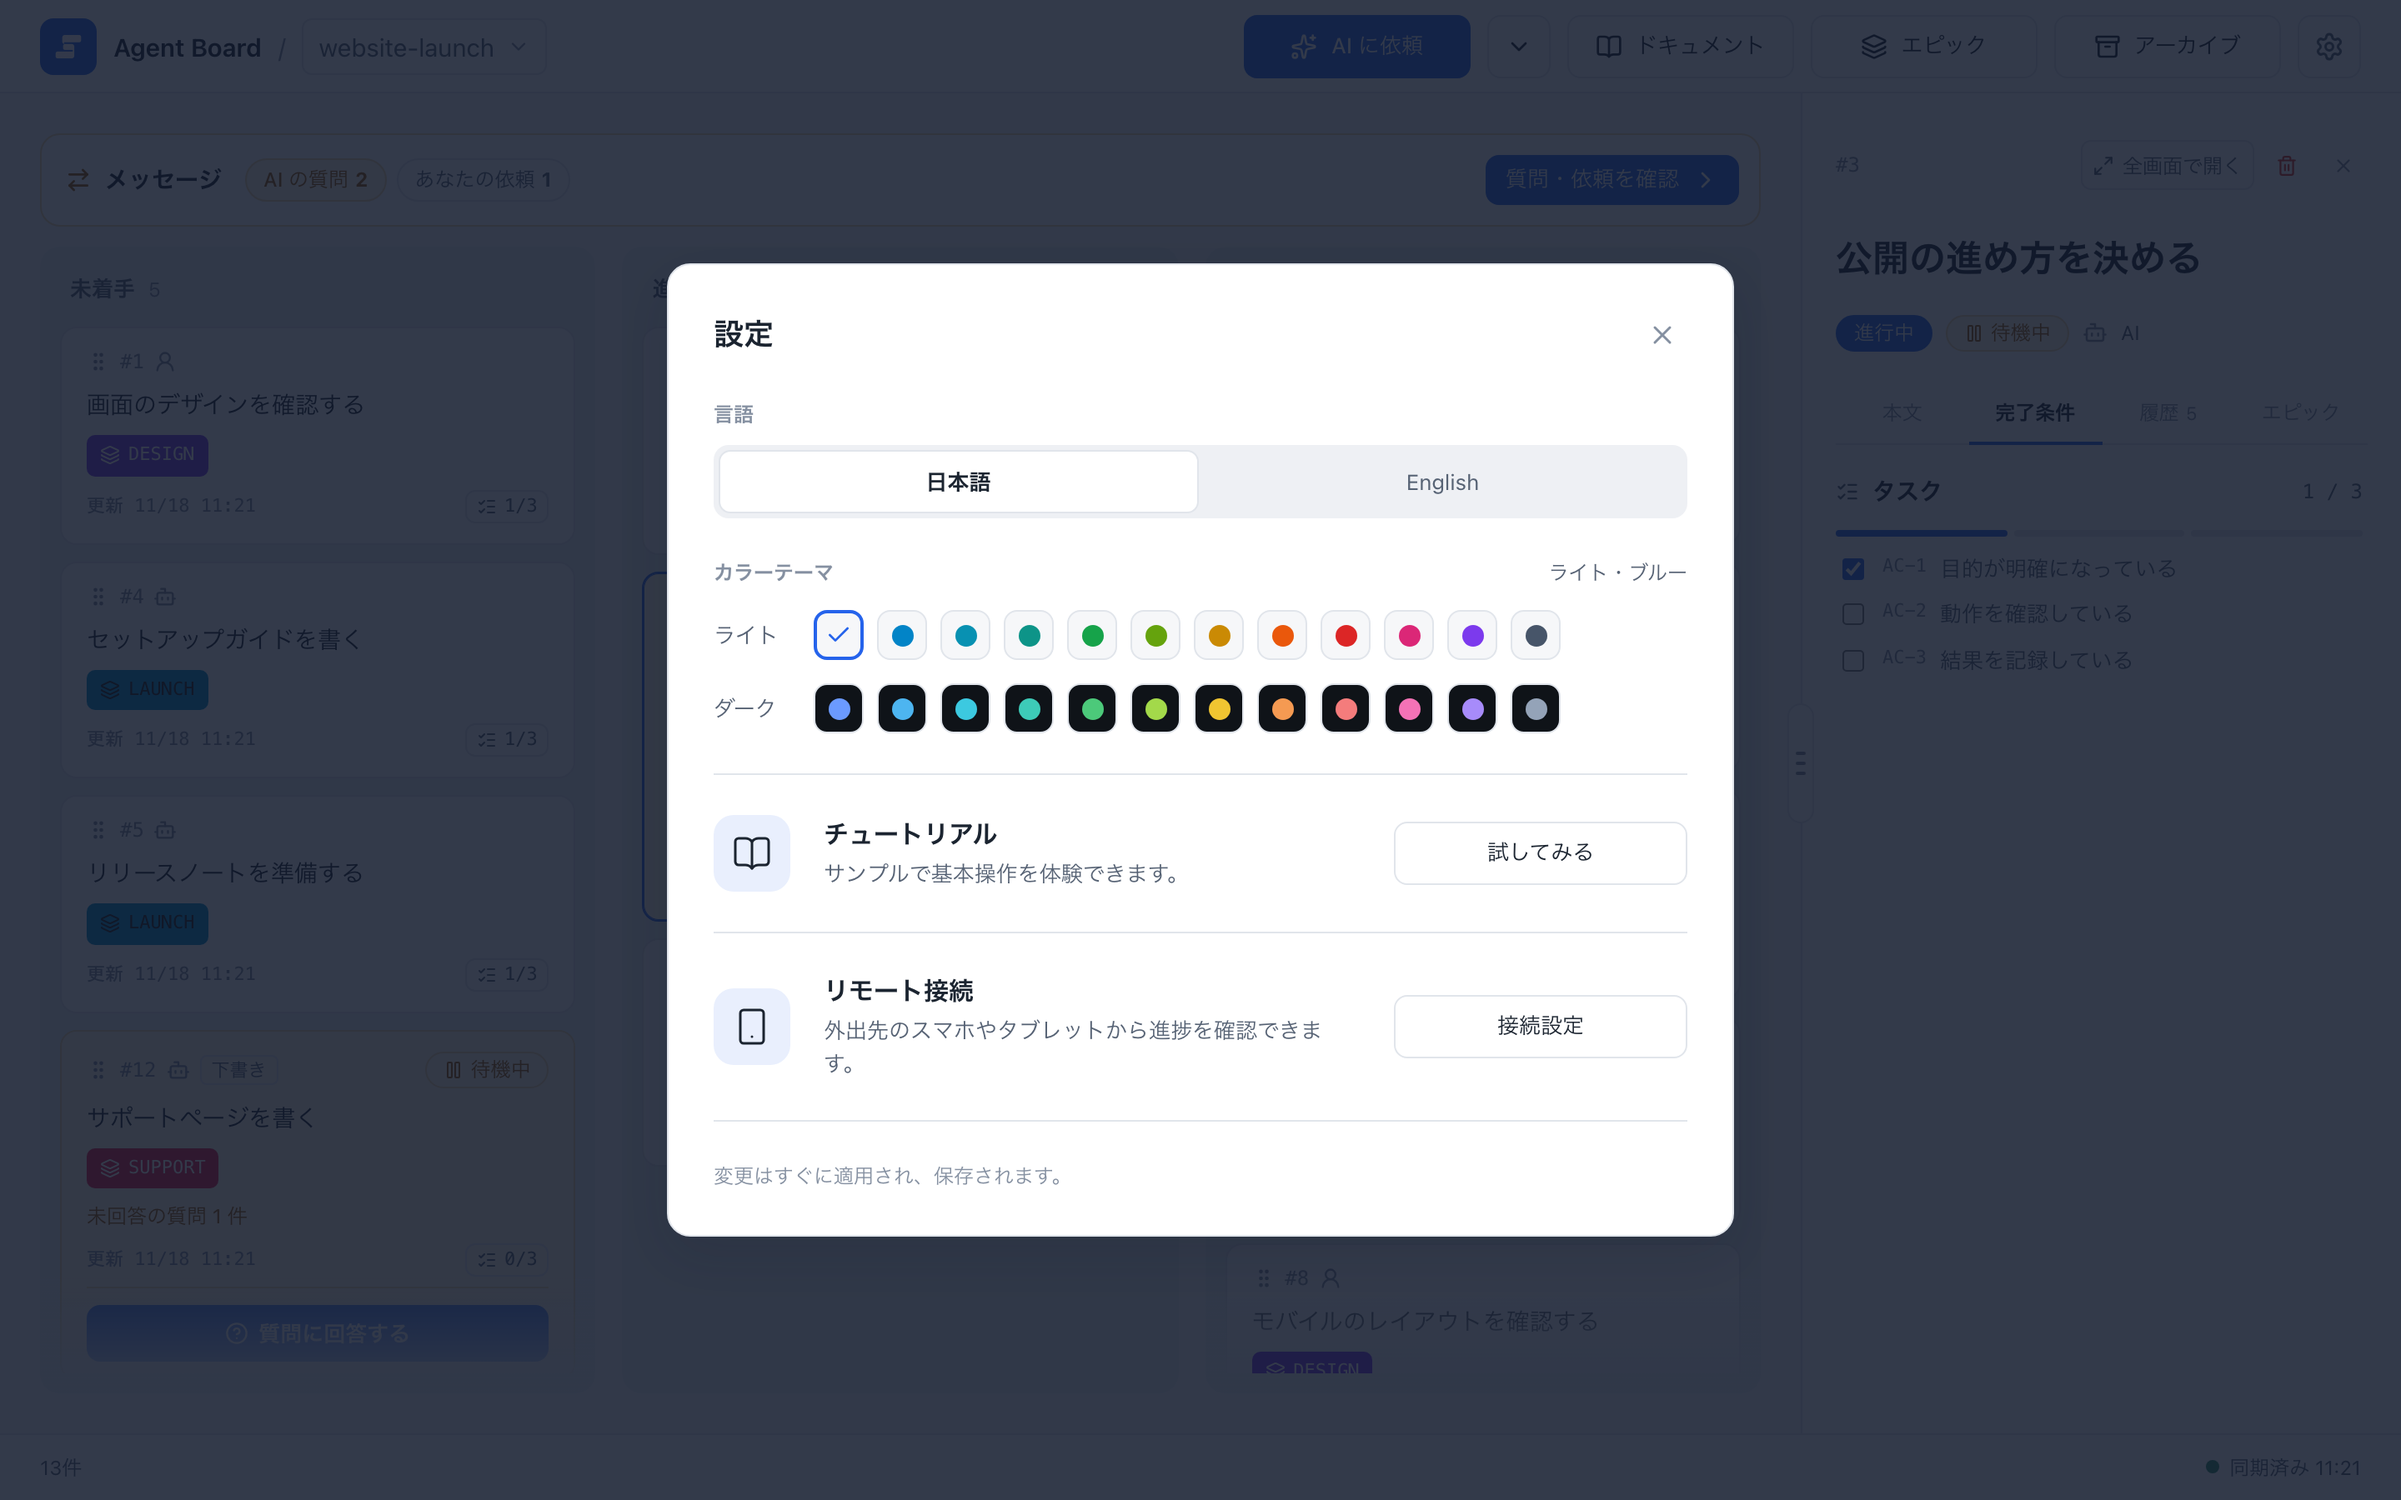
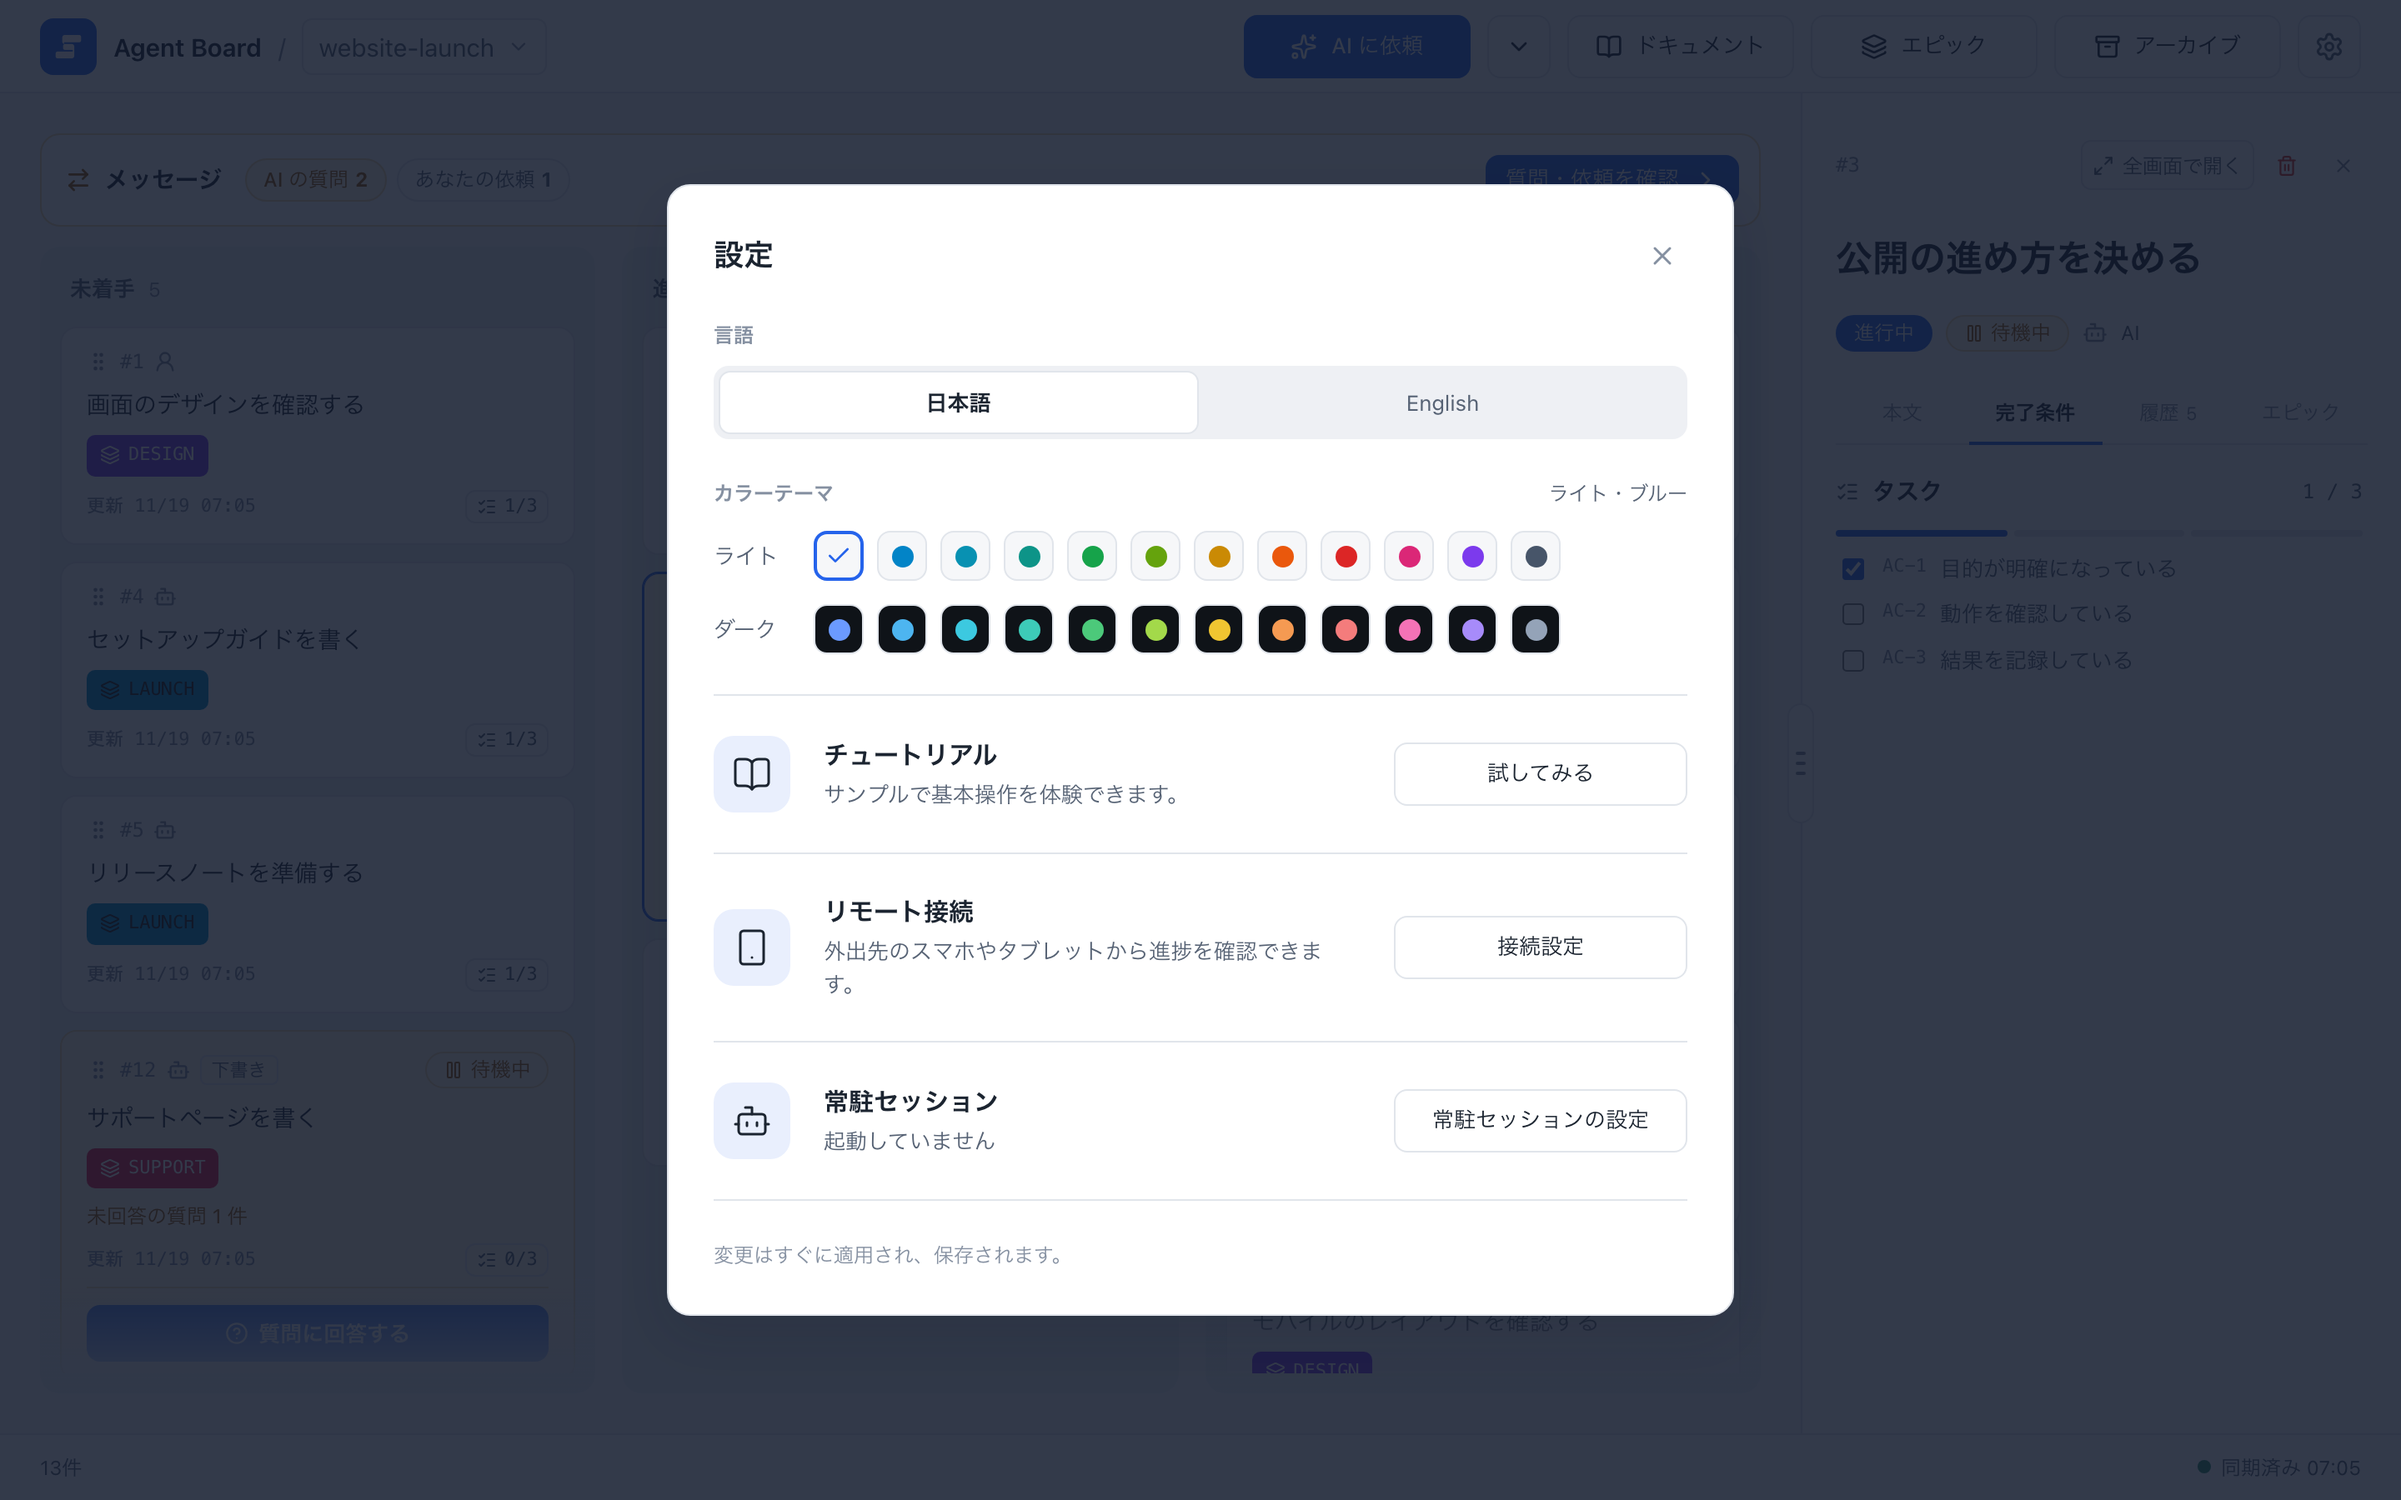
docs: add the resident session dialog to the guide and the screenshot script

diff --git a/docs/ja/dev/docs-and-images.md b/docs/ja/dev/docs-and-images.md
@@ -30,7 +30,7 @@ pnpm --dir docs preview --port <port>   # ビルドしたサイトを配信
 ガイドの画像とデモ動画は、次のスクリプトで再生成します。どちらも先に[Web画面とCLIをビルド](./getting-started/setup.md#ビルド)し、[検証](./getting-started/pull-request.md#検証)のPlaywrightのブラウザをインストールしておく必要があります。
 
 ```sh
-node e2e/scripts/docs-screenshots.mjs   # docs/images/guide/*.png(英日20枚)
+node e2e/scripts/docs-screenshots.mjs   # docs/images/guide/*.png(英日22枚)
 node e2e/scripts/demo-video.mjs         # docs/public/videos/(ffmpegも必要)
 ```
 
@@ -82,4 +82,4 @@ node e2e/scripts/readme-screenshots.mjs
 
 スクリプトは一時的な`AGBOARD_HOME`に使い捨てのプロジェクトを作り、空いているループバックのポートで独自のサーバーを起動し、PCのボード、エピックの進捗パネル、タブレット幅（1024×768）で開いたボード（リモートの入口の背後）、スマホの4画面（タブ付きの進行中レーン、スライドして移動とアーカイブのボタンを出した選択中のカード、選択肢を選んだ質問、下部のドロワー）を英語と日本語で撮影します。普段のボードやポート7420は使いません。ブラウザはビルドした画面を実際のAPIに接続して描画するので、画像はモックではありません。詳細の4つのタブ、タスクの編集画面の折りたたんだ完了条件の欄、ブラウザのエラーを確かめ、終わったら一時データを消します。
 
-`docs/images/`の14枚は、コミット前にすべて確認し、サンプルの文章に個人情報を含めないでください。スクリーンショットは回帰テストやスマホのキーボードの確認の代わりにはなりません。`docs/images/guide/`のガイドの画像（20枚）は上の別のスクリプトで作るので、作り直したときはそれも確認してください。
+`docs/images/`の14枚は、コミット前にすべて確認し、サンプルの文章に個人情報を含めないでください。スクリーンショットは回帰テストやスマホのキーボードの確認の代わりにはなりません。`docs/images/guide/`のガイドの画像（22枚）は上の別のスクリプトで作るので、作り直したときはそれも確認してください。

diff --git a/docs/dev/docs-and-images.md b/docs/dev/docs-and-images.md
@@ -30,7 +30,7 @@ Keep diagrams focused on one flow. Flowcharts and sequence diagrams retain their
 Regenerate the guide screenshots and the demo videos with the scripts below. Both need the web UI and CLI [built](./getting-started/setup.md#build) first, and the Playwright browser from [Verification](./getting-started/pull-request.md#verification).
 
 ```sh
-node e2e/scripts/docs-screenshots.mjs   # docs/images/guide/*.png (20 images, English and Japanese)
+node e2e/scripts/docs-screenshots.mjs   # docs/images/guide/*.png (22 images, English and Japanese)
 node e2e/scripts/demo-video.mjs         # docs/public/videos/ (also needs ffmpeg)
 ```
 
@@ -82,4 +82,4 @@ node e2e/scripts/readme-screenshots.mjs
 
 The script creates disposable projects in temporary `AGBOARD_HOME` directories, starts its own servers on available loopback ports, and captures the desktop board, the epic progress panel, the board at a tablet width (1024 x 768, behind the remote entrance), and four phone screens (the Doing lane with its tabs, a chosen card slid open to show its buttons, a question with a choice picked, and the bottom drawer) in English and Japanese. It never uses your saved board or port 7420. The browser renders the built UI against the real API; images are not mockups. It checks the four detail tabs, the task editor's folded conditions panel, and browser errors, and removes its temporary data afterwards.
 
-Review all fourteen images in `docs/images/` before committing them, and keep the sample text free of personal data. Screenshots do not replace the regression suite or phone keyboard checks. The guide images in `docs/images/guide/` (20 files) come from the separate script above; review them too when you regenerate them.
+Review all fourteen images in `docs/images/` before committing them, and keep the sample text free of personal data. Screenshots do not replace the regression suite or phone keyboard checks. The guide images in `docs/images/guide/` (22 files) come from the separate script above; review them too when you regenerate them.

diff --git a/docs/ja/guide/delegate/resident-session.md b/docs/ja/guide/delegate/resident-session.md
@@ -17,6 +17,8 @@ title: 常駐セッション
 3. **モデル**は**既定のモデル**のままにするか、一覧から選びます。一覧を読み取れないときは、その理由が表示され、既定のモデルだけが選べます。
 4. **起動**を選びます。要求の処理中は操作が無効になり、ボタンは**起動しています…**になります。終了するには**停止**、失敗したあとは**再起動**を選びます。
 
+![待機中の Claude Code のセッション、ツールとモデルの選択、外部セッションの一覧を表示した常駐セッションのダイアログ](../../../images/guide/resident-session.ja.png){.screenshot}
+
 選んだツールとモデルは次回の起動から反映されます。別の選択で動いている間は、ダイアログに `次回の起動: …` と表示されます。
 
 ツールがインストールされていない、またはログインしていないときは、カードに理由とターミナルで実行するコマンドが出ます。直したら**もう一度確認**を選びます。フォルダーが結び付いていないプロジェクトでは起動できません。`agboard project bind` で結び付けてください。

diff --git a/docs/guide/delegate/resident-session.md b/docs/guide/delegate/resident-session.md
@@ -17,6 +17,8 @@ A session the board starts runs without a person watching it, and it approves th
 3. Under **Model**, keep **Default model** or choose one from the list. If the list cannot be read, the dialog says why and offers only the default.
 4. Choose **Start**. While the request runs, the controls are disabled and the button reads **Starting…**. Choose **Stop** to end the session, or **Restart** after a failure.
 
+![The resident session dialog with a waiting Claude Code session, the tool and model choices, and the external sessions list](../../images/guide/resident-session.png){.screenshot}
+
 The tool and model you choose apply from the next start. While a session runs with another choice, the dialog shows `Next start: …`.
 
 If the tool is not installed or not logged in, the card says so with the reason and the command to run in a terminal. Choose **Check again** after you fix it. A project without a bound folder cannot start a session; bind one with `agboard project bind`.
